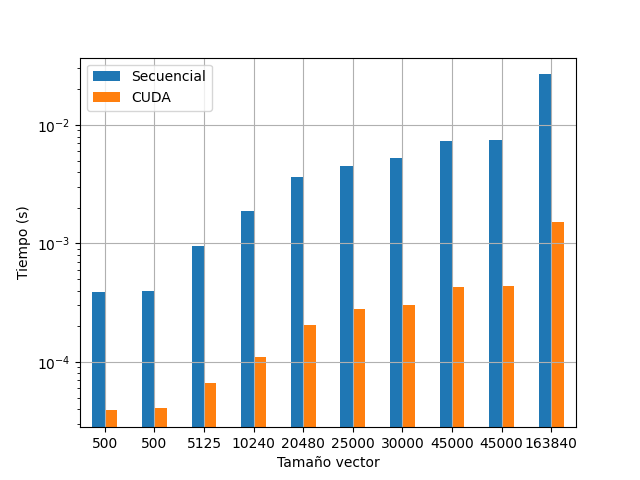
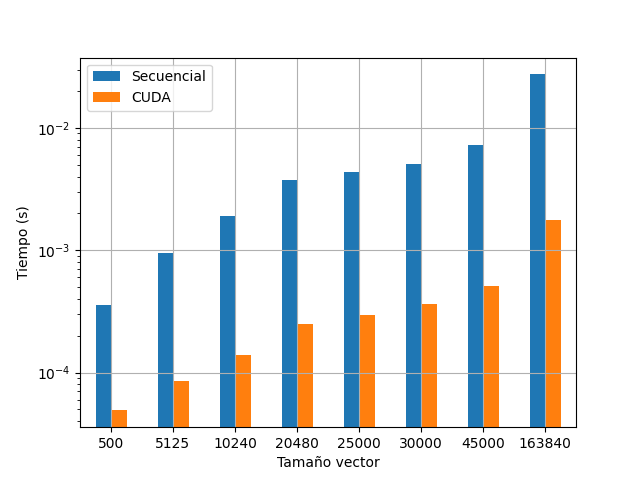
Fixed plots and tables in documentation

Changed region(s): [[0.0625, 0.125, 0.9062, 0.9375]]

diff --git a/P4/doc/memoria.tex b/P4/doc/memoria.tex
@@ -369,16 +369,14 @@ de la correspondiente gráfica:
 \begin{tabular}{|c|c|c|}
 \hline
 \textbf{\begin{tabular}[c]{@{}c@{}}Tamaño de\\ los vectores\end{tabular}} & \textbf{\begin{tabular}[c]{@{}c@{}}Tiempo secuencial\\ (s)\end{tabular}} & \textbf{\begin{tabular}[c]{@{}c@{}}Tiempo CUDA\\ (s)\end{tabular}} \\ \hline
-500 & 0.000386 & 0.000039 \\ \hline
-500 & 0.000394 & 0.000041 \\ \hline
-5125 & 0.000961 & 0.000067 \\ \hline
-10240 & 0.001891 & 0.00011 \\ \hline
-20480 & 0.003607 & 0.000206 \\ \hline
-25000 & 0.004517 & 0.000279 \\ \hline
-30000 & 0.005243 & 0.000301 \\ \hline
-45000 & 0.007347 & 0.000432 \\ \hline
-45000 & 0.007437 & 0.000435 \\ \hline
-163840 & 0.026749 & 0.001523 \\ \hline
+500 & 0.000357 & 0.000049 \\ \hline
+5125 & 0.000952 & 0.000086 \\ \hline
+10240 & 0.001887 & 0.000139 \\ \hline
+20480 & 0.003761 & 0.00025 \\ \hline
+25000 & 0.004338 & 0.000298 \\ \hline
+30000 & 0.005056 & 0.000361 \\ \hline
+45000 & 0.007283 & 0.000512 \\ \hline
+163840 & 0.02738 & 0.001758 \\ \hline
 \end{tabular}
 \caption{Tiempo de ejecución secuencial y paralelo con \texttt{CUDA} para cada problema.}
 \label{tab:times}
@@ -417,16 +415,14 @@ de la ganancia:
 \begin{tabular}{|c|c|}
 \hline
 \textbf{\begin{tabular}[c]{@{}c@{}}Tamaño de\\ los vectores\end{tabular}} & \textbf{Ganancia} \\ \hline
-500 & 9.8974359 \\ \hline
-500 & 9.6097561 \\ \hline
-5125 & 14.34328358 \\ \hline
-10240 & 17.19090909 \\ \hline
-20480 & 17.50970874 \\ \hline
-25000 & 16.18996416 \\ \hline
-30000 & 17.41860465 \\ \hline
-45000 & 17.00694444 \\ \hline
-45000 & 17.09655172 \\ \hline
-163840 & 17.56336179 \\ \hline
+500 & 7.28571429 \\ \hline
+5125 & 11.06976744 \\ \hline
+10240 & 13.57553957 \\ \hline
+20480 & 15.044 \\ \hline
+25000 & 14.55704698 \\ \hline
+30000 & 14.00554017 \\ \hline
+45000 & 14.22460938 \\ \hline
+163840 & 15.5745165 \\ \hline
 \end{tabular}
 \caption{Ganancia para cada problema.}
 \label{tab:speedup}

diff --git a/P4/scripts/plots.py b/P4/scripts/plots.py
@@ -33,13 +33,8 @@ plt.grid()
 plt.show()
 
 # Plot speedup
-ax = plt.gca()
-x = [n for n in range(len(speedup))]
 
-ax.set_xticks(x)
-ax.set_xticklabels(df_seq['Tamaño vector'].values)
-
-plt.plot(x, speedup, 'g-o')
+plt.bar([f'{s}' for s in df_seq['Tamaño vector'].values], speedup, color='g', width=0.5)
 plt.xlabel('Tamaño vector')
 plt.ylabel('Ganancia')
 

diff --git a/P4/run.py b/P4/run.py
@@ -11,6 +11,10 @@ if not len(sys.argv) == 2:
 data_dir = 'data'
 dirs = os.listdir(data_dir)
 dirs.sort()
+dirs.remove('3')
+dirs.remove('9')
+
+print(dirs)
 
 # Define paths for each binary and group them according to their functionality
 specs_binary = 'bin/deviceProperties'
